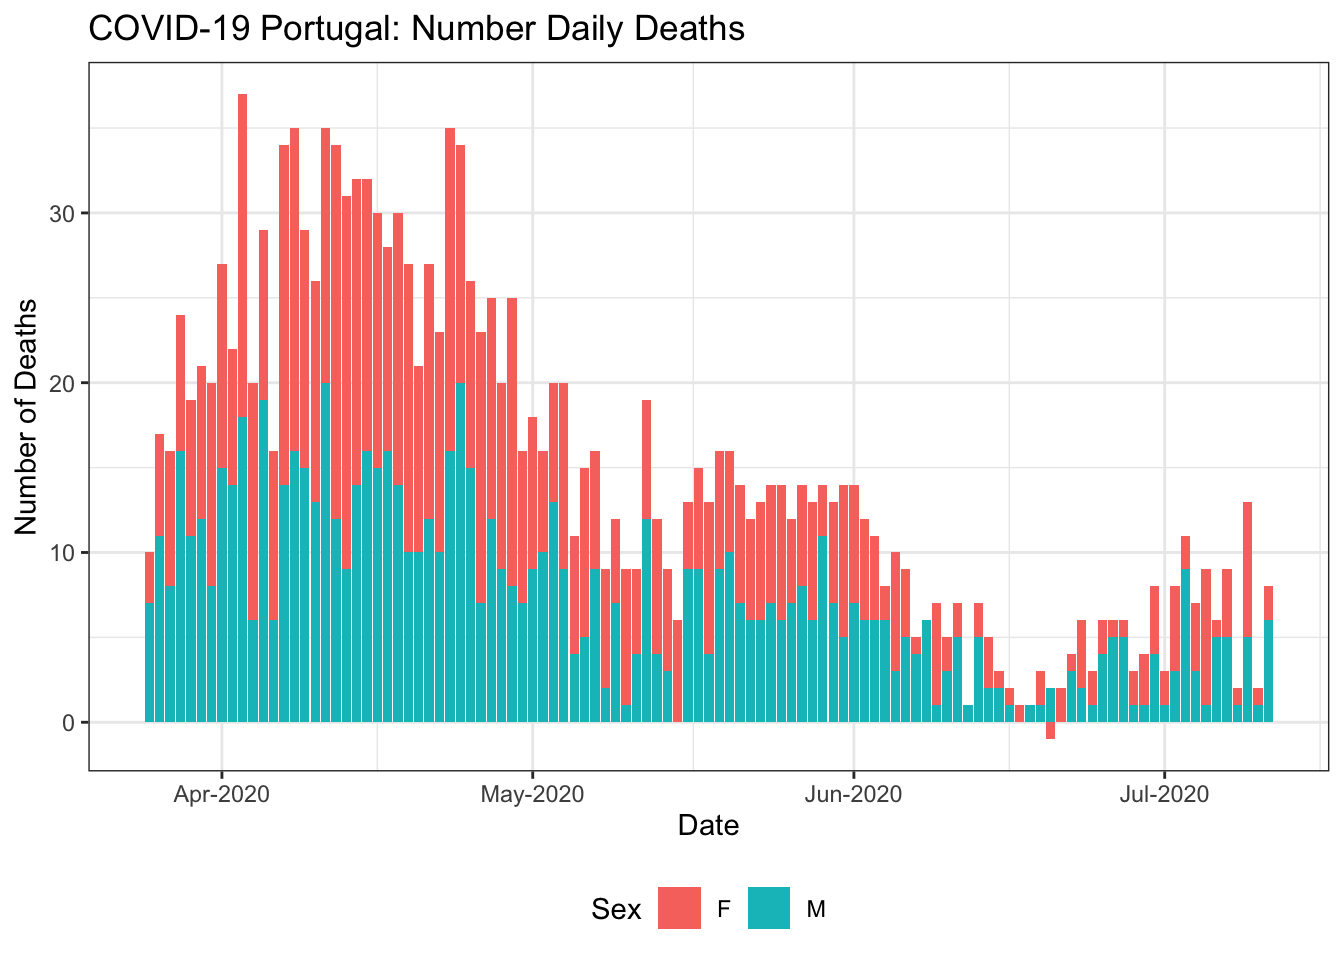
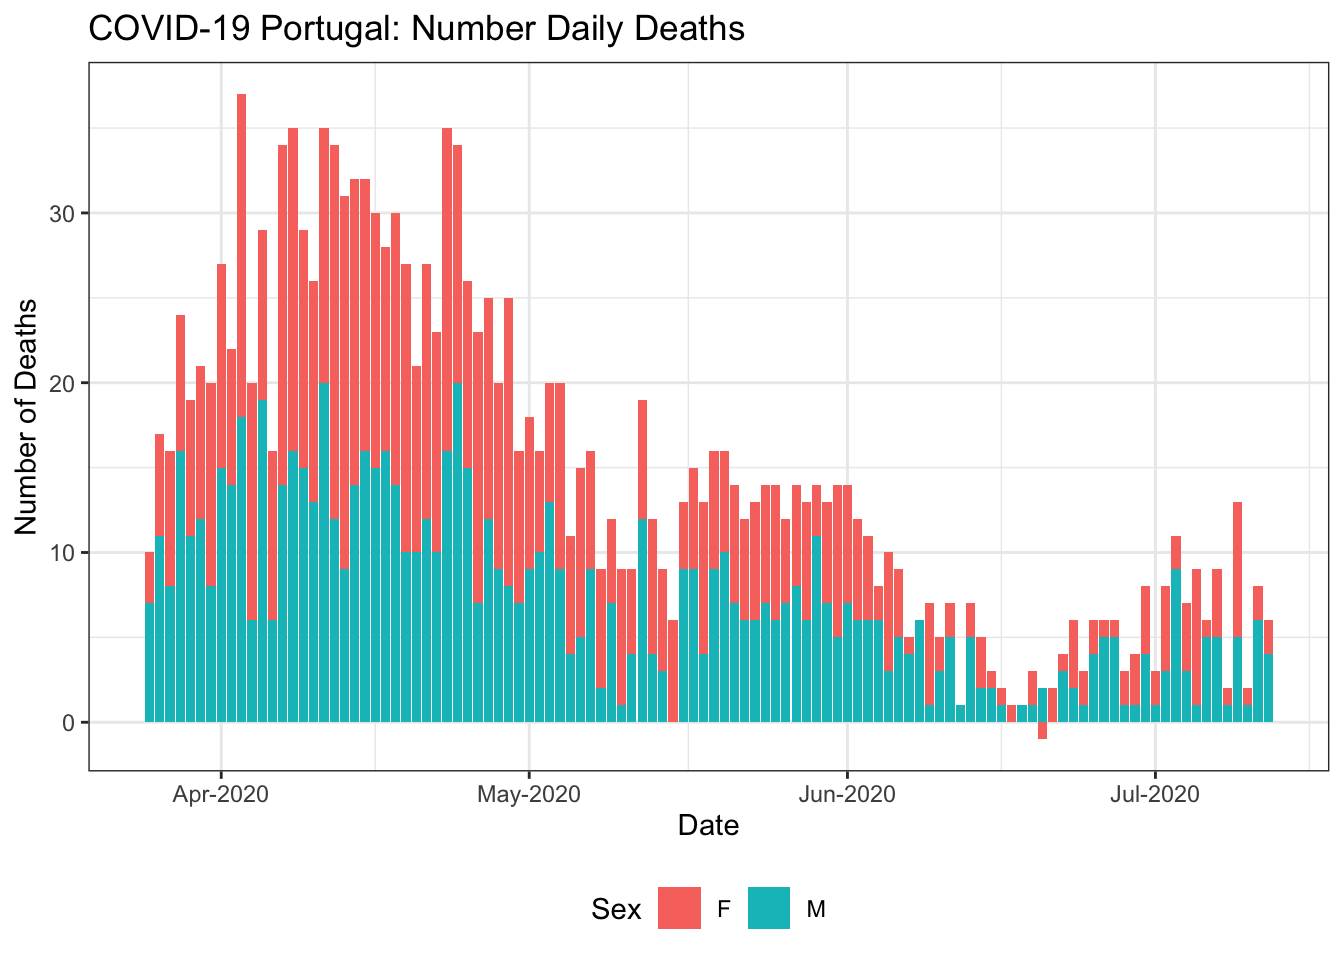
Data Update & Re-build README.Rmd

diff --git a/README.md b/README.md
@@ -1,9 +1,9 @@
 
 ## Daily Portuguese COVID-19 Data
 
-**Last updated: Sun 12 Jul 2020 (15:26:47 UTC \[+0000\])**
+**Last updated: Mon 13 Jul 2020 (03:26:04 UTC \[+0000\])**
 
-  - Data available from **26 Feb 2020** until **11 Jul 2020** (137
+  - Data available from **26 Feb 2020** until **12 Jul 2020** (138
     days).
 
 ### Download User Friendly Version
@@ -48,7 +48,7 @@ suppressPackageStartupMessages(library(here)) # library(here)
 # Read in data as a data.frame and data.table object.
 CV <- fread(here("data", "covid19pt_DSSG_Long.csv"))
 str(CV)
-## Classes 'data.table' and 'data.frame':   11508 obs. of  12 variables:
+## Classes 'data.table' and 'data.frame':   11592 obs. of  12 variables:
 ##  $ data       : chr  "2020-02-26" "2020-02-27" "2020-02-28" "2020-02-29" ...
 ##  $ origVars   : chr  "cadeias_transmissao" "cadeias_transmissao" "cadeias_transmissao" "cadeias_transmissao" ...
 ##  $ origType   : chr  "cadeias" "cadeias" "cadeias" "cadeias" ...
@@ -111,7 +111,7 @@ CV[origType=="confirmados" & ageGrp=="" & region!="Portugal"] %>%
     y = "Number of Confirmed Cases",
     colour = "Region")
 ## Warning: Transformation introduced infinite values in continuous y-axis
-## Warning: Removed 121 row(s) containing missing values (geom_path).
+## Warning: Removed 122 row(s) containing missing values (geom_path).
 ```
 
 <img src="README_figs/README-casesbyRegion-1.png" width="672" />
@@ -140,9 +140,9 @@ CV[dailyChange<0 & !(origType %in% c("vigilancia", "internados"))][
 ##   4: 2020-03-24 confirmados   confirmados_40_49_f   224          -2
 ##   5: 2020-03-19 confirmados   confirmados_60_69_f    35         -14
 ##  ---                                                               
-## 152: 2020-04-04      obitos    obitos_arsalentejo     0          -1
-## 153: 2020-05-23      obitos      obitos_arscentro   230          -3
-## 154: 2020-07-03      obitos      obitos_arscentro   248          -1
-## 155: 2020-06-20      obitos              obitos_f   768          -1
-## 156: 2020-05-21 transmissao transmissao_importada   767          -3
+## 155: 2020-04-04      obitos    obitos_arsalentejo     0          -1
+## 156: 2020-05-23      obitos      obitos_arscentro   230          -3
+## 157: 2020-07-03      obitos      obitos_arscentro   248          -1
+## 158: 2020-06-20      obitos              obitos_f   768          -1
+## 159: 2020-05-21 transmissao transmissao_importada   767          -3
 ```
